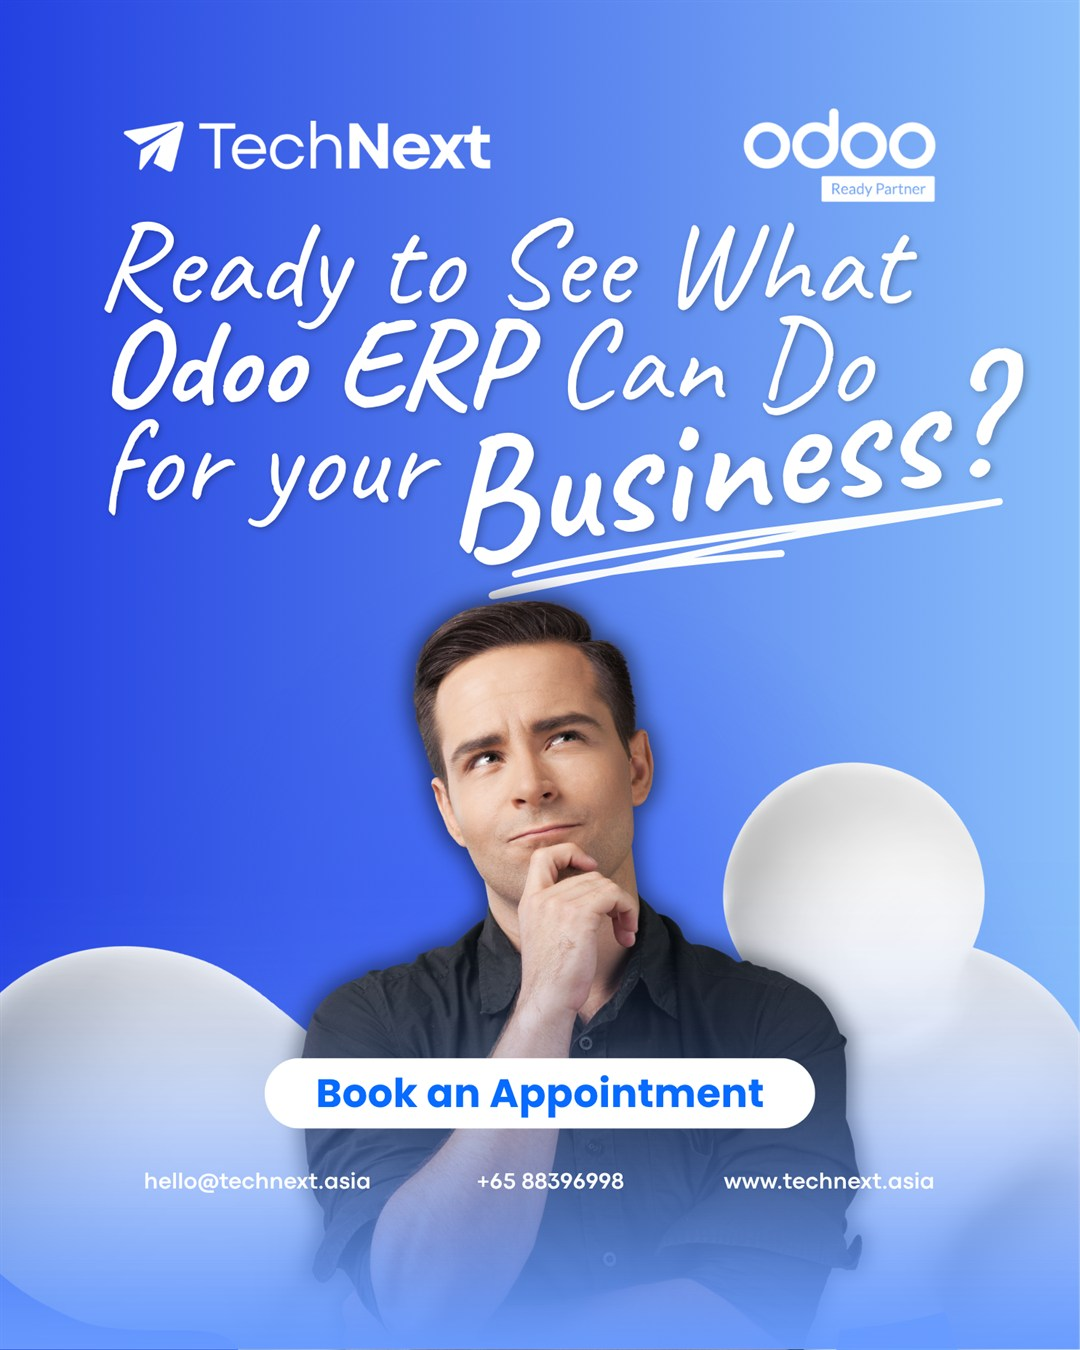
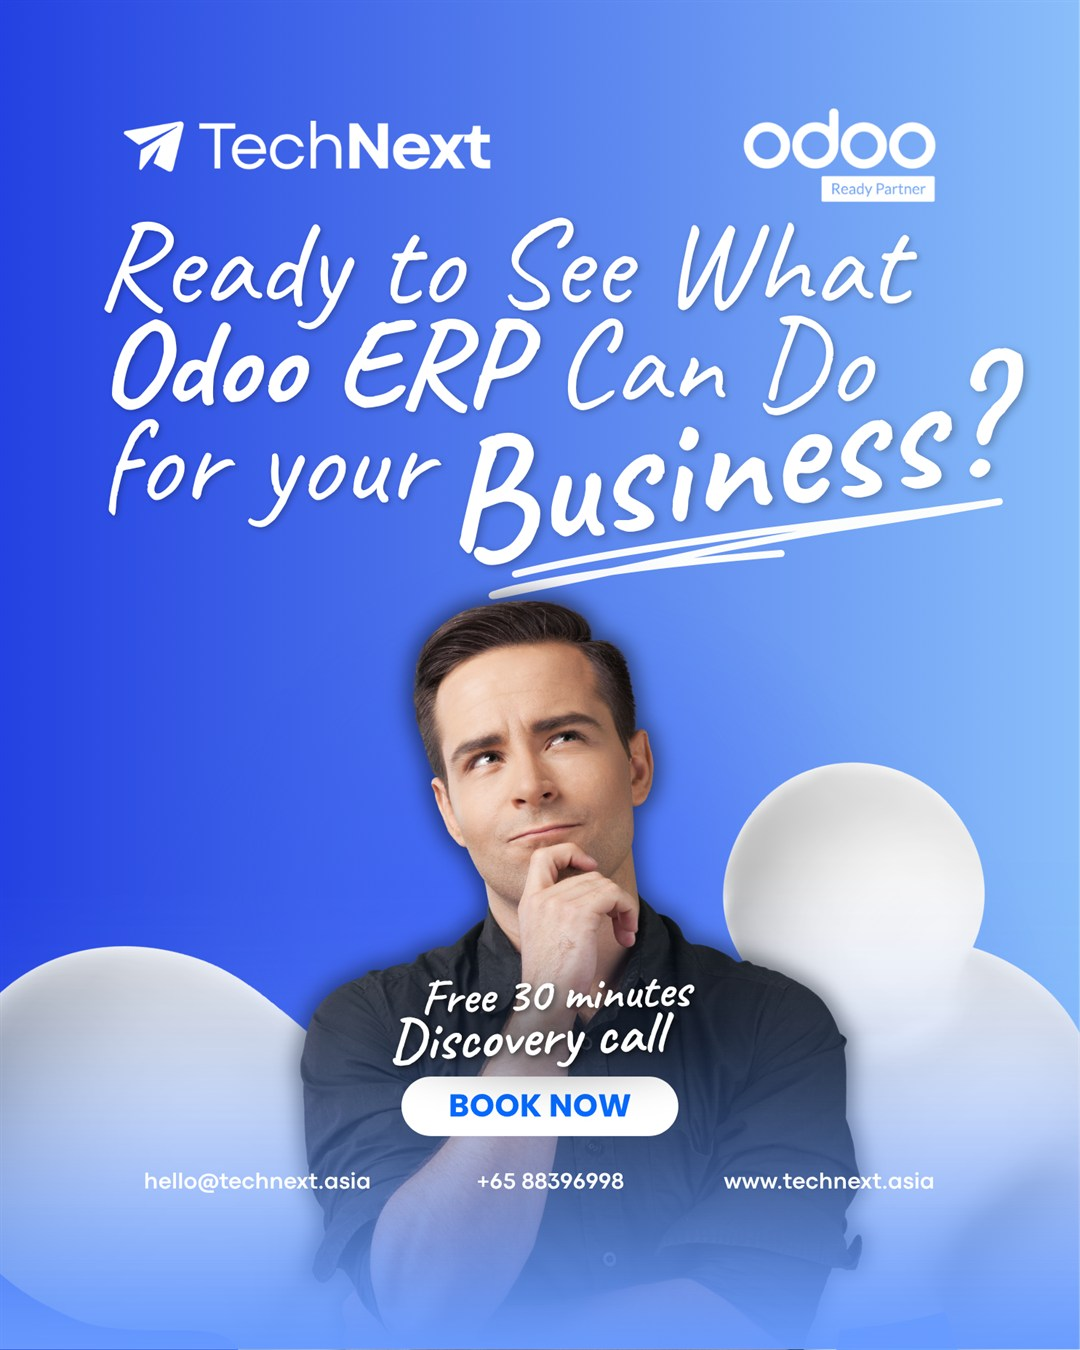
Lower the volume expectations and swap in creative v2
Rico set the ceiling at 3-4 qualified leads a month, so the funnel is rebuilt
backwards from that rather than forwards from spend. Every count is now a
conservative range, not a single figure — there is no measured baseline for this
offer, so a precise number would be false precision. Reads: 10-14 form
submissions, 3-4 qualified (4 is the ceiling), 2-3 held demos, one signed client
a quarter and two in a good one. KPI targets moved with it: cost per submission
under $100, cost per held demo under $500, one client a quarter.

Also states the downside plainly — six to nine demos is not many rolls of the
dice, so a quarter could close nothing, which is why the spend is capped at
three months.

Creative v2 replaces v1: the pill is now BOOK NOW (word-for-word the Meta CTA)
and the artwork carries the offer itself — 'Free 30 minutes Discovery call'.
That is a different promise from the demo-on-your-own-products copy it replaced,
so the primary text now sells the discovery call and positions the loaded demo
as the step after. Still exactly 4:5 at 1485x1856; shipped at 1080x1350.

Changed region(s): [[0.2444, 0.7156, 0.7639, 0.84]]

diff --git a/ads.html b/ads.html
@@ -54,9 +54,10 @@
       click. Small enough to run properly, funded long enough to produce an answer.</p>
       <div class="oneline"><b>The proposal: $1,000 a month for three months — $3,000.</b> $800 to cold
       prospecting, $200 to retargeting, both optimising for a lead on
-      <code>technext.asia/lp/</code>. Planned outcome: about <b>34 leads and 7 demos a month</b>, and
-      roughly <b>two signed clients a quarter</b> at <b>~$1,400 of media each</b> — against a
-      first-year contract near <b>SGD 13,000</b>.</div>
+      <code>technext.asia/lp/</code>. Planned outcome, deliberately stated as ranges:
+      <b>3–4 qualified leads a month at most</b>, which is <b>2–3 held demos</b>, and
+      <b>one signed client a quarter — two in a good one</b>, at <b>$1,500–3,000 of media each</b>
+      against a first-year contract near <b>SGD 13,000</b>.</div>
       <div class="facts">
         <span>Platform <b>Facebook + Instagram</b></span>
         <span>Market <b>Singapore</b></span>
@@ -92,10 +93,10 @@
         </div>
         <div class="qs-card">
           <div class="n">4</div>
-          <h4>Sell the appointment, not Odoo</h4>
-          <p>Nobody buys an ERP from an ad. The ad's only job is a booked appointment — a free
-          30-minute demo loaded with the prospect's own products and prices. That offer is the
-          entire pitch.</p>
+          <h4>Sell the call, not Odoo</h4>
+          <p>Nobody buys an ERP from an ad. The ad's only job is a booked <b>free 30-minute discovery
+          call</b> — the offer now written on the artwork itself. The demo on their own products is the
+          step after, not the thing being sold here.</p>
         </div>
       </div>
       <div class="callout blue">
@@ -131,7 +132,7 @@
         <div class="acard">
           <div class="prev"><img src="assets/ad-creative-4x5.jpg" alt="TechNext Odoo ERP ad: Ready to see what Odoo ERP can do for your business?"></div>
           <div class="meta">
-            <div class="nm">"Ready to See What Odoo ERP Can Do for your Business?"</div>
+            <div class="nm">"Ready to See What Odoo ERP Can Do for your Business?"<br><span style="font-weight:600;color:var(--muted);font-size:12.8px">Free 30 minutes discovery call · BOOK NOW</span></div>
             <div class="sp">JPEG · 1080×1350 · 4:5</div>
             <a class="btn btn-primary" href="assets/ad-creative-4x5.jpg" download="technext-odoo-ad-4x5.jpg">Download</a>
           </div>
@@ -147,6 +148,7 @@
                 <tr><td class="k">1:1 crop</td><td><b>Rebuild, don't crop.</b> The headline fills the top 40% and the button and contact line the bottom 15% — a square crop loses one end or the other.</td></tr>
                 <tr><td class="k">Stories / Reels</td><td><b>Exclude at launch.</b> The interface covers roughly the top 14% and bottom 20%, which is exactly where the logos and the button sit.</td></tr>
                 <tr><td class="k">Branding</td><td>TechNext logo and the correct <b>Odoo Ready Partner</b> badge both present.</td></tr>
+                <tr><td class="k">Offer</td><td>Stated on the artwork — <b>free, 30 minutes, discovery call</b>. Good: the reader knows the ask before they read a word of copy, so the text is free to do a different job.</td></tr>
               </tbody>
             </table>
           </div>
@@ -154,14 +156,14 @@
       </div>
 
       <div class="callout amber">
-        <span class="ch"><span class="warn-ic">⚠</span> The "Book an Appointment" pill is drawn inside the image.</span>
-        Meta renders its own CTA button directly beneath the artwork, so the ad ships with two buttons —
-        and the painted one does nothing when tapped. Two consequences: set the real CTA button to
-        <b>Book now</b> so the two at least agree, and expect some taps to land on the dead pill.
-        Meta also discourages creatives that imitate platform controls, so if delivery is ever limited
-        this is the first thing to test removing. A version without the pill and without the baked-in
-        contact line is the cleanest paid variant — those details are a flyer habit, and the CTA button
-        and link bar already do that job.
+        <span class="ch"><span class="warn-ic">⚠</span> The "BOOK NOW" pill is drawn inside the image.</span>
+        Meta renders its own CTA button directly beneath the artwork, so the ad ships with two buttons
+        and the painted one does nothing when tapped. Setting the real button to <b>Book now</b> makes
+        them read as one instruction rather than two, which is the best available fix — but expect some
+        taps to land on the dead pill. Meta also discourages creatives that imitate platform controls,
+        so if delivery is ever limited this is the first thing to test removing. A variant with no pill
+        and no baked-in contact line is the cleanest paid version: those details are a flyer habit, and
+        the CTA button and link bar already do that job.
       </div>
 
       <h3 class="sub">The ad copy</h3>
@@ -170,34 +172,35 @@
       <div class="bp">
         <button class="cbtn2">Copy</button>
         <h4>Primary text — cold</h4>
-        <p>Most Odoo demos show you someone else's business. We load your own products and prices in
-        first.<br><br>
-        So in 30 minutes you see your quotations, your stock and your invoices running in one
-        system — POS, inventory, CRM and accounting, configured around the way you already work
-        rather than the other way round.<br><br>
-        TechNext is an Odoo Ready Partner in Singapore. Book an appointment — no licence to buy
-        upfront.</p>
+        <p>Most Odoo conversations start with a feature list. This one starts with your business.<br><br>
+        Thirty minutes on how you quote, invoice and track stock today, and where Odoo would actually
+        save time — POS, inventory, CRM and accounting in one system, fitted to the way you already
+        work. No slide deck, and no licence to buy.<br><br>
+        If it looks like a fit, the follow-up demo runs on your own products and prices. TechNext is an
+        Odoo Ready Partner in Singapore — book a free 30-minute discovery call.</p>
       </div>
       <div class="scroll-x">
         <table class="tbl">
           <thead><tr><th>Field</th><th>Text</th><th>Count</th></tr></thead>
           <tbody>
-            <tr><td class="k">Headline</td><td>See Odoo run on your own data</td><td>29 / 40</td></tr>
+            <tr><td class="k">Headline</td><td>See where Odoo saves you time</td><td>29 / 40</td></tr>
             <tr><td class="k">Description</td><td>Odoo Ready Partner in SG</td><td>24 / 30</td></tr>
-            <tr><td class="k">Button</td><td><b>Book now</b> <span class="sm">matches the pill in the artwork</span></td><td>—</td></tr>
+            <tr><td class="k">Button</td><td><b>Book now</b> <span class="sm">word-for-word the pill in the artwork</span></td><td>—</td></tr>
             <tr><td class="k">Retargeting primary text</td><td>"You looked at Odoo. The question is never whether it can do the job — it is whether the implementation gets done properly. That is the part we own: scoping, configuration, migrating your existing files, and training the team on the modules they actually touch."</td><td>—</td></tr>
           </tbody>
         </table>
       </div>
-      <p style="margin-top:14px">The first line is <b>96 characters</b>, so the whole hook is visible
-      before Meta's "See more" cut on mobile. It deliberately does not repeat the headline in the
-      artwork — the picture asks, the text answers.</p>
+      <p style="margin-top:14px">The first line is <b>86 characters</b>, so the whole hook is visible
+      before Meta's "See more" cut on mobile. It deliberately repeats neither the artwork's headline nor
+      its offer — the picture asks the question and names the ask, so the text is free to say why this
+      call is different from every other vendor call.</p>
       <div class="callout amber">
-        <span class="ch"><span class="warn-ic">⚠</span> Two claims that must stay exactly as written.</span>
-        It is <b>"Odoo Ready Partner"</b> — that is the tier Odoo's own directory lists, and "Certified
-        Partner" is not one of their company tiers. And the copy promises a demo pre-loaded with the
-        prospect's products, so somebody has to own doing that before the ad goes live. No client
-        counts, no implementation timelines, no performance claims until there is documented proof.
+        <span class="ch"><span class="warn-ic">⚠</span> Three things to hold to before launch.</span>
+        It is <b>"Odoo Ready Partner"</b> — the tier Odoo's own directory lists; "Certified Partner" is
+        not one of their company tiers. The artwork promises <b>30 minutes, free</b>, so the call has to
+        stay free and stay roughly 30 minutes. And the copy promises a follow-up demo on the prospect's
+        own products, so somebody must own preparing that. No client counts, no implementation
+        timelines, no performance claims until there is documented proof.
       </div>
     </section>
 
@@ -233,21 +236,30 @@
       </div>
 
       <h3 class="sub">What it buys</h3>
-      <p style="font-size:14px;margin-bottom:6px">Planning assumptions for Singapore B2B software. The
-      first month replaces them with actuals.</p>
+      <p style="font-size:14px;margin-bottom:6px">Conservative planning bands for Singapore B2B
+      software. Ranges rather than single figures on purpose — there is no measured baseline for this
+      offer yet, so a precise number would be false precision. Plan against the low end.</p>
       <div class="scroll-x">
         <table class="tbl">
           <thead><tr><th>Step</th><th>Rate</th><th>Cold</th><th>Retarget</th><th>Total</th></tr></thead>
           <tbody>
             <tr><td class="k">Spend</td><td>—</td><td>$800</td><td>$200</td><td><b>$1,000</b></td></tr>
-            <tr><td class="k">Impressions</td><td>CPM $20 cold · $25 warm</td><td>40,000</td><td>8,000</td><td>48,000</td></tr>
-            <tr><td class="k">Landing page views</td><td>1.3% cold · 2.5% warm</td><td>520</td><td>200</td><td>~720</td></tr>
-            <tr><td class="k">Leads</td><td>5% cold · warm capped by pool size</td><td>26</td><td>8</td><td><b>~34</b> <span class="sm">~$29 each</span></td></tr>
-            <tr><td class="k">Qualified</td><td>40%</td><td colspan="2"></td><td>~14</td></tr>
-            <tr><td class="k">Demos held</td><td>50%</td><td colspan="2"></td><td><b>~7</b> <span class="sm">~$145 each</span></td></tr>
-            <tr><td class="k">Signed clients</td><td>10% of demos</td><td colspan="2"></td><td><b>~0.7</b> <span class="sm">one every ~6 weeks</span></td></tr>
+            <tr><td class="k">Impressions</td><td>CPM $28 cold · $32 warm</td><td>~28,000</td><td>~6,000</td><td>~34,000</td></tr>
+            <tr><td class="k">Landing page views</td><td>~1% cold · ~2% warm</td><td>~280</td><td>~120</td><td>~400</td></tr>
+            <tr><td class="k">Form submissions</td><td>3% cold · 5% warm</td><td>7–9</td><td>4–6</td><td><b>10–14</b> <span class="sm">$70–100 each</span></td></tr>
+            <tr><td class="k">Qualified — reachable and in market</td><td>~30%</td><td colspan="2"></td><td><b>3–4 a month, and treat 4 as the ceiling</b></td></tr>
+            <tr><td class="k">Demos held</td><td>~70% of qualified</td><td colspan="2"></td><td><b>2–3</b> <span class="sm">$330–500 each</span></td></tr>
+            <tr><td class="k">Signed clients</td><td>10–15% of demos</td><td colspan="2"></td><td><b>1 a quarter</b> <span class="sm">2 in a good one</span></td></tr>
           </tbody>
         </table>
+      </div>
+      <div class="callout blue">
+        <span class="ch">Three or four qualified conversations a month is the honest ceiling.</span>
+        Not because the ad is weak, but because that is what $1,000 buys against Singapore B2B costs
+        once the form fill and the reachable-and-in-market filter have both taken their cut. It is a
+        small number, and it is the right one to plan staffing and expectations around. Anyone
+        promising thirty leads a month at this budget is quoting raw form fills, not conversations
+        worth having.
       </div>
 
       <h3 class="sub">Is $1,000 the right number?</h3>
@@ -256,31 +268,40 @@
           <thead><tr><th></th><th>$300/mo</th><th>$1,000/mo</th><th>$2,000/mo</th></tr></thead>
           <tbody>
             <tr><td class="k">Per day</td><td>~$10</td><td><b>~$33</b></td><td>~$66</td></tr>
-            <tr><td class="k">Leads / month</td><td>~10</td><td><b>~34</b></td><td>~70</td></tr>
-            <tr><td class="k">Demos / month</td><td>~2</td><td><b>~7</b></td><td>~14</td></tr>
-            <tr><td class="k">Clients / quarter</td><td>~0.6</td><td><b>~2</b></td><td>~4</td></tr>
-            <tr><td class="k">Readable result by</td><td>never — too few leads to trust</td><td><b>week 12</b></td><td>week 6</td></tr>
+            <tr><td class="k">Form submissions / month</td><td>3–4</td><td><b>10–14</b></td><td>20–28</td></tr>
+            <tr><td class="k">Qualified / month</td><td>~1</td><td><b>3–4</b></td><td>6–8</td></tr>
+            <tr><td class="k">Demos held / month</td><td>0–1</td><td><b>2–3</b></td><td>4–6</td></tr>
+            <tr><td class="k">Clients / quarter</td><td>unlikely</td><td><b>1–2</b></td><td>2–3</td></tr>
+            <tr><td class="k">Readable result by</td><td>never — too few leads to trust</td><td><b>week 12</b></td><td>week 8</td></tr>
             <tr><td class="k">Verdict</td><td>Too thin to decide on.</td><td><b>Proposed.</b></td><td>Once a cost per demo is proven.</td></tr>
           </tbody>
         </table>
       </div>
 
       <div class="callout green">
-        <span class="ch">Budget barely moves cost per client. It moves how many, and how fast you know.</span>
-        Media per client is set by the funnel rates, not the budget — it lands near <b>$1,400</b>
-        whether the spend is $1,000 or $2,000 a month. So the question is not whether a client is
-        affordable, it is how quickly they should arrive and how soon the numbers can be trusted.
-        $1,000 buys about two clients a quarter and a reliable cost per lead by week 12.
+        <span class="ch">Is it worth it? One client pays for the quarter about four times over.</span>
+        Six to nine held demos across three months, closing at 10–15%, is <b>one signed client</b> —
+        two if it goes well. At a first-year contract near <b>SGD 13,000</b> against <b>$3,000</b> of
+        media, a single win returns roughly <b>4×</b>. The honest flip side: six to nine demos is not
+        many rolls of the dice, so a quarter <b>could close nothing</b>. That is precisely why the spend
+        is capped at three months — the downside is a known $3,000, not an open commitment.
+      </div>
+
+      <div class="callout">
+        <span class="ch">Budget moves volume and speed of learning, not cost per client.</span>
+        Media per client is set by the funnel rates, so it stays in the <b>$1,500–3,000</b> band whether
+        the spend is $1,000 or $2,000 a month. Doubling the budget does not make clients cheaper; it
+        makes them arrive sooner and the numbers trustworthy earlier.
       </div>
 
       <div class="callout blue">
         <span class="ch">Why three months, not a short burst.</span>
-        Meta needs volume before it delivers predictably — around 50 conversions per ad set per week,
-        which at $29 a lead would cost far more than this plan. So the cold ad set will run in extended
-        learning and weekly figures will bounce around. The answer is time rather than money: keep the
-        spend on one ad set so the data lands in one place, and let it run twelve weeks. About 100 leads
-        over the quarter is enough to trust. Stopping in week 3 pays for the expensive part and skips
-        the answer.
+        Meta needs volume before it delivers predictably — far more per week than this budget will ever
+        produce — so the cold ad set will run in extended learning and weekly figures will bounce
+        around. The answer is time rather than money: keep the spend on one ad set so the data lands in
+        one place, and let it run twelve weeks. Thirty to forty form submissions over the quarter is
+        thin, but it is enough to separate a working offer from a broken one. Stopping in week 3 pays
+        for the expensive part and skips the answer.
       </div>
 
       <div class="callout amber">
@@ -303,7 +324,7 @@
             <tr><td class="k">Week 1–2</td><td>Live. Do not touch it — the ad set is in learning. Answer every comment publicly; "how much?" questions do real conversion work.</td></tr>
             <tr><td class="k">Week 3–4</td><td>First read on cost per lead. Replace the planning assumptions with actuals and recalculate before changing anything.</td></tr>
             <tr><td class="k">Week 5–8</td><td>Run the first A/B test. Two candidates, in order: <b>a Singaporean face</b> in place of the stock portrait, and a version with the painted button and contact line removed. Refresh the retargeting copy too — that pool fatigues fastest.</td></tr>
-            <tr><td class="k">Week 9–12</td><td>Judge on signed clients. Two or more: raise to $2,000. One: hold. Zero: stop spending and fix the demo, not the ad.</td></tr>
+            <tr><td class="k">Week 9–12</td><td>Judge on signed clients. <b>Two:</b> raise to $2,000. <b>One:</b> on plan — hold at $1,000 and run another quarter. <b>Zero, but demos were held:</b> the offer or the demo is the problem, not the ad. <b>Zero, and no demos:</b> stop spending.</td></tr>
           </tbody>
         </table>
       </div>
@@ -313,12 +334,13 @@
         <table class="tbl">
           <thead><tr><th>Metric</th><th>Target</th><th>Action if missed</th></tr></thead>
           <tbody>
-            <tr><td class="k">Cost per lead</td><td>under $40</td><td>Shorten the form before touching the bid.</td></tr>
             <tr><td class="k">Landing page view rate</td><td>over 1%</td><td>Creative problem, not audience. Rotate the primary text.</td></tr>
-            <tr><td class="k">Lead → demo held</td><td>over 20%</td><td>A speed-of-reply problem nine times out of ten.</td></tr>
-            <tr><td class="k"><b>Cost per held demo</b></td><td><b>under $250</b></td><td>The number that decides whether to scale.</td></tr>
+            <tr><td class="k">Cost per form submission</td><td>under $100</td><td>Shorten the form before touching the bid.</td></tr>
+            <tr><td class="k"><b>Qualified leads</b></td><td><b>3–4 a month</b></td><td>Below 2, the targeting is reaching the wrong companies.</td></tr>
+            <tr><td class="k">Qualified → demo held</td><td>over 60%</td><td>A speed-of-reply problem nine times out of ten.</td></tr>
+            <tr><td class="k"><b>Cost per held demo</b></td><td><b>under $500</b></td><td>The number that decides whether to scale.</td></tr>
             <tr><td class="k">Retargeting frequency</td><td>under 4</td><td>Cut that ad set to $100 and move the rest to cold.</td></tr>
-            <tr><td class="k"><b>Signed clients</b></td><td><b>2 per quarter</b></td><td>The only number that settles the channel.</td></tr>
+            <tr><td class="k"><b>Signed clients</b></td><td><b>1 per quarter</b></td><td>The only number that settles the channel.</td></tr>
           </tbody>
         </table>
       </div>
